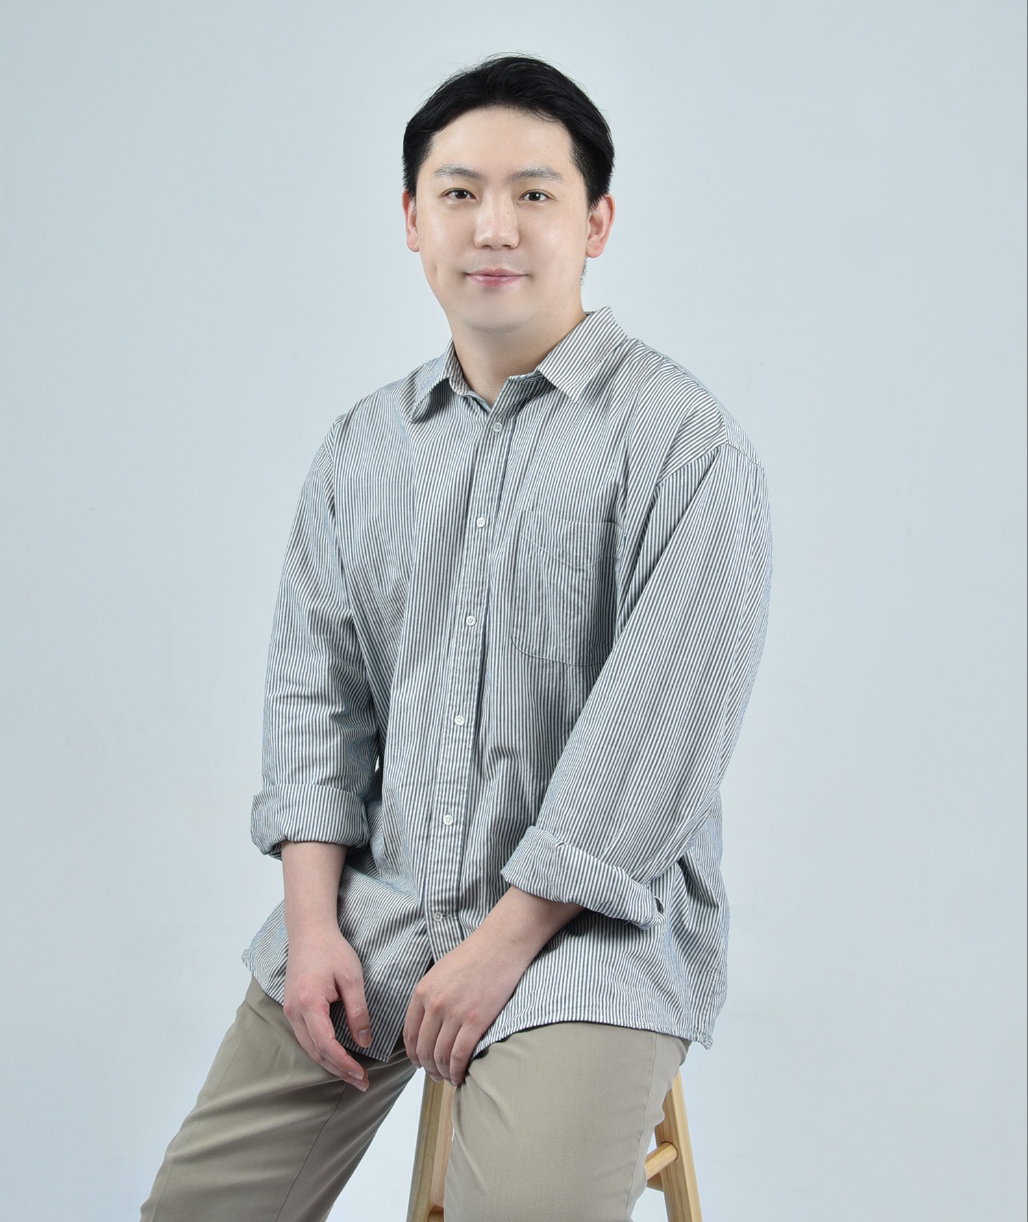
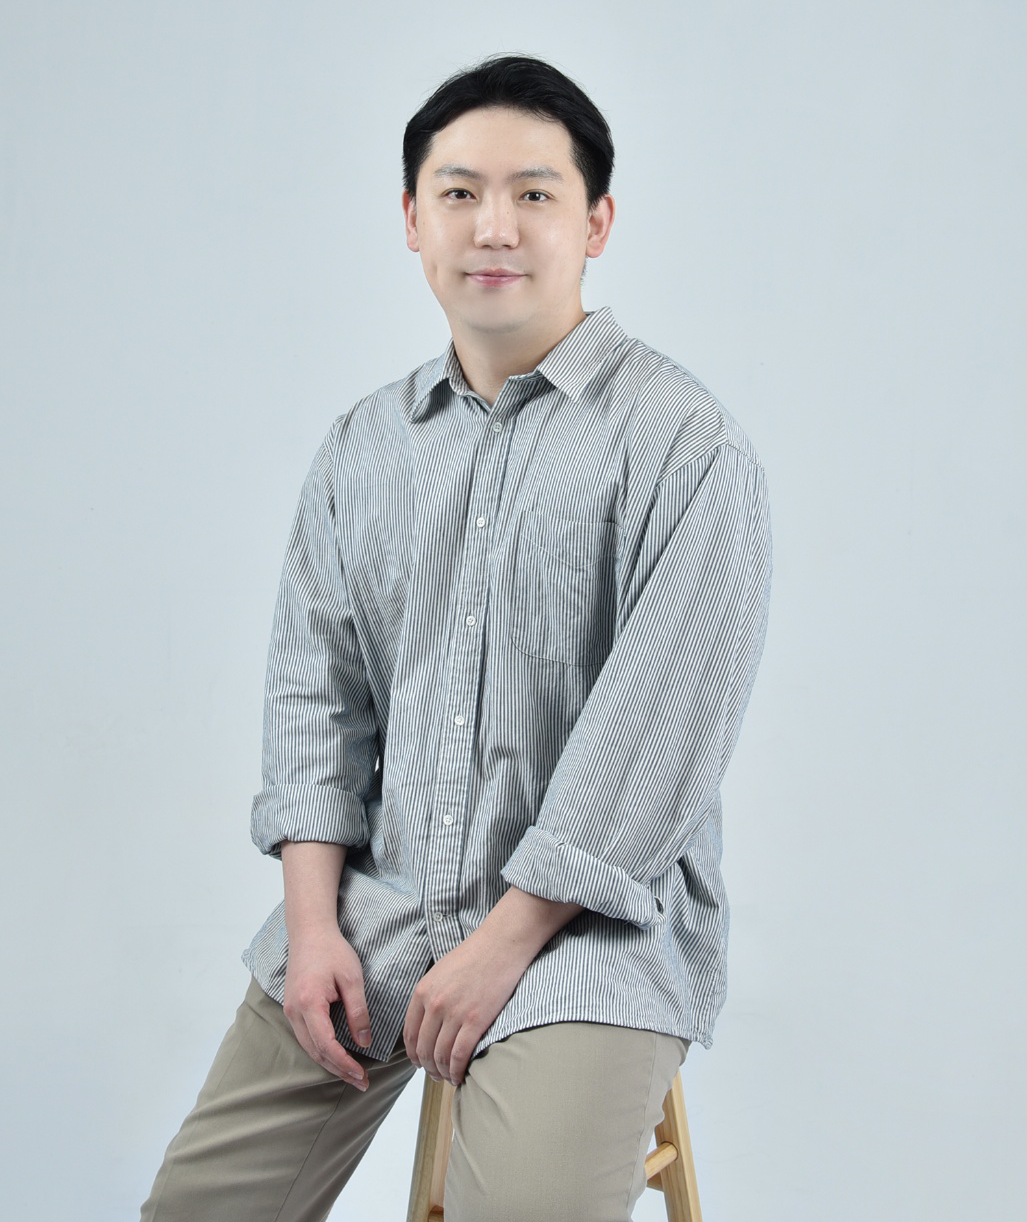
사진교체

Changed region(s): [[0.2804, 0.2488, 0.7478, 0.8707], [0.9971, 0.0, 1.0, 1.0]]

diff --git a/index.html b/index.html
@@ -140,9 +140,7 @@
           <img src="images/mainpic.png" alt="">
           </div>
           <div class="visual-bg">
-
           </div>
-          <!-- <img src="https://media.giphy.com/media/PI3QGKFN6XZUCMMqJm/giphy.gif" alt="" class="visual-img"> -->
         </div>
         <ul class="visual-icon">
           <li><a href="#contact" class="visual-email">email</a></li>
@@ -162,8 +160,6 @@
           <img src="images/mainpic2.png" alt="">
           </div>
           <div class="profile-box">
-
-            <!-- <p class="profile-title">1.자기소개</p> -->
             <p class="profile-txt">프론트엔드 엔지니어가 되고 싶은 <strong>김세호</strong>입니다. 저는 긍정적이고 진취적인 사람입니다.<br>
               처음에는 낯을 가리는 편이지만 친해지면 상대방을 소중하게 생각하고 존중하는 사람입니다.<br>
               욕심이 많은 성격 탓에 주어진 일을 똑 소리 나게 끝까지 완수합니다.<br>
@@ -600,8 +596,6 @@
                   <h5>MiniMemo<br>(Vue.js/php/MySQL)</h5>
 
                   <a href="http://seaho5599.dothome.co.kr/page-miniblog/" target="_blank">
-                    <!-- <img src="images/miniblog-intro.png" alt="https://seaho5599.github.io/page-miniblog/"
-                      class="mini-hover"> -->
                     <img src="images/miniblog.png" alt="https://seaho5599.github.io/page-miniblog/" class="mini-img">
                   </a>
                 </div>
@@ -634,29 +628,9 @@
                   <a href="https://github.com/seaho5599/todorest" target="_blank">vue github
                     <i class="fa-brands fa-github"></i>
                   </a>
-                  <!-- <a href="Figma 링크 주소" target="_blank">Figma<i class="fa-brands fa-figma"></i></a> -->
                 </div>
               </div>
-              <!--<div class="protfolio-clone p-vue">
-                <div class="sw-txt">
-                  <h5>TodoApp<br>(Vue.js/php/MySQL)</h5>
 
-                  <a href="#" target="_blank">
-                    <img src="images/400x500.png" alt="https://seaho5599.github.io/hanaph/">
-                  </a>
-                </div>
-                <div class="clone-ex">
-                  <p>제작기간 : 약 5일</p>
-                  <p>프로그램 : HTML5, CSS3, JS, JQUERY, VUE.JS</p>
-                </div>
-                <div class="sw-btn">
-                  <a href="깃허브 Vue.js page주소" target="_blank">vue work<i class="fa-brands fa-vuejs"></i></a>
-                  <a href="깃허브 Vue.js 주소" target="_blank">vue github
-                    <i class="fa-brands fa-github"></i>
-                  </a>
-                  <a href="Figma 링크 주소" target="_blank">Figma<i class="fa-brands fa-figma"></i></a>
-                </div>
-              </div> -->
               <div class="protfolio-clone p-vue">
                 <div class="sw-txt">
                   <h5>지브리스튜디오 API<br>(Vue.js)</h5>
@@ -675,8 +649,6 @@
                   <a href="https://github.com/seaho5599/vue-ghibli" target="_blank">vue github
                     <i class="fa-brands fa-github"></i>
                   </a>
-                  <!-- <a href="Figma 링크 주소" target="_blank">Figma<i class="fa-brands fa-figma"></i></a>
-                </div> -->
               </div>
             </div>
           </div>
@@ -702,14 +674,6 @@
                 <span>STUDY</span>
               </div>
             </li>
-            <!-- <li class="life-box-3">
-              <div class="life-box-txt">
-                <a href="images/life1.png" data-lightbox="life" data-title="내가 좋아하는 것">
-                  <img src="images/life1.png" alt="">
-                </a>
-                <span>FUTSAL</span>
-              </div>
-            </li> -->
           </ul>
           <ul class="life-box-list">
             <li class="life-box-4">

diff --git a/js/script.js b/js/script.js
@@ -1,13 +1,13 @@
 window.onload = function () {
   AOS.init();
-  lightbox.option({
-    resizeDuration: 200,
-    wrapAround: true,
-    positionFromTop: 200,
-    disableScrolling: true,
-    maxWidth: "800px",
-    maxHeight: "800px",
-  });
+  // lightbox.option({
+  //   resizeDuration: 200,
+  //   wrapAround: true,
+  //   positionFromTop: 200,
+  //   disableScrolling: true,
+  //   maxWidth: "800px",
+  //   maxHeight: "800px",
+  // });
 
   //   const content = "안녕하세요!! \n 저의 포토폴리오의 오신 걸 \n 환영합니다.";
   //   const text = document.querySelector(".visual-title");
